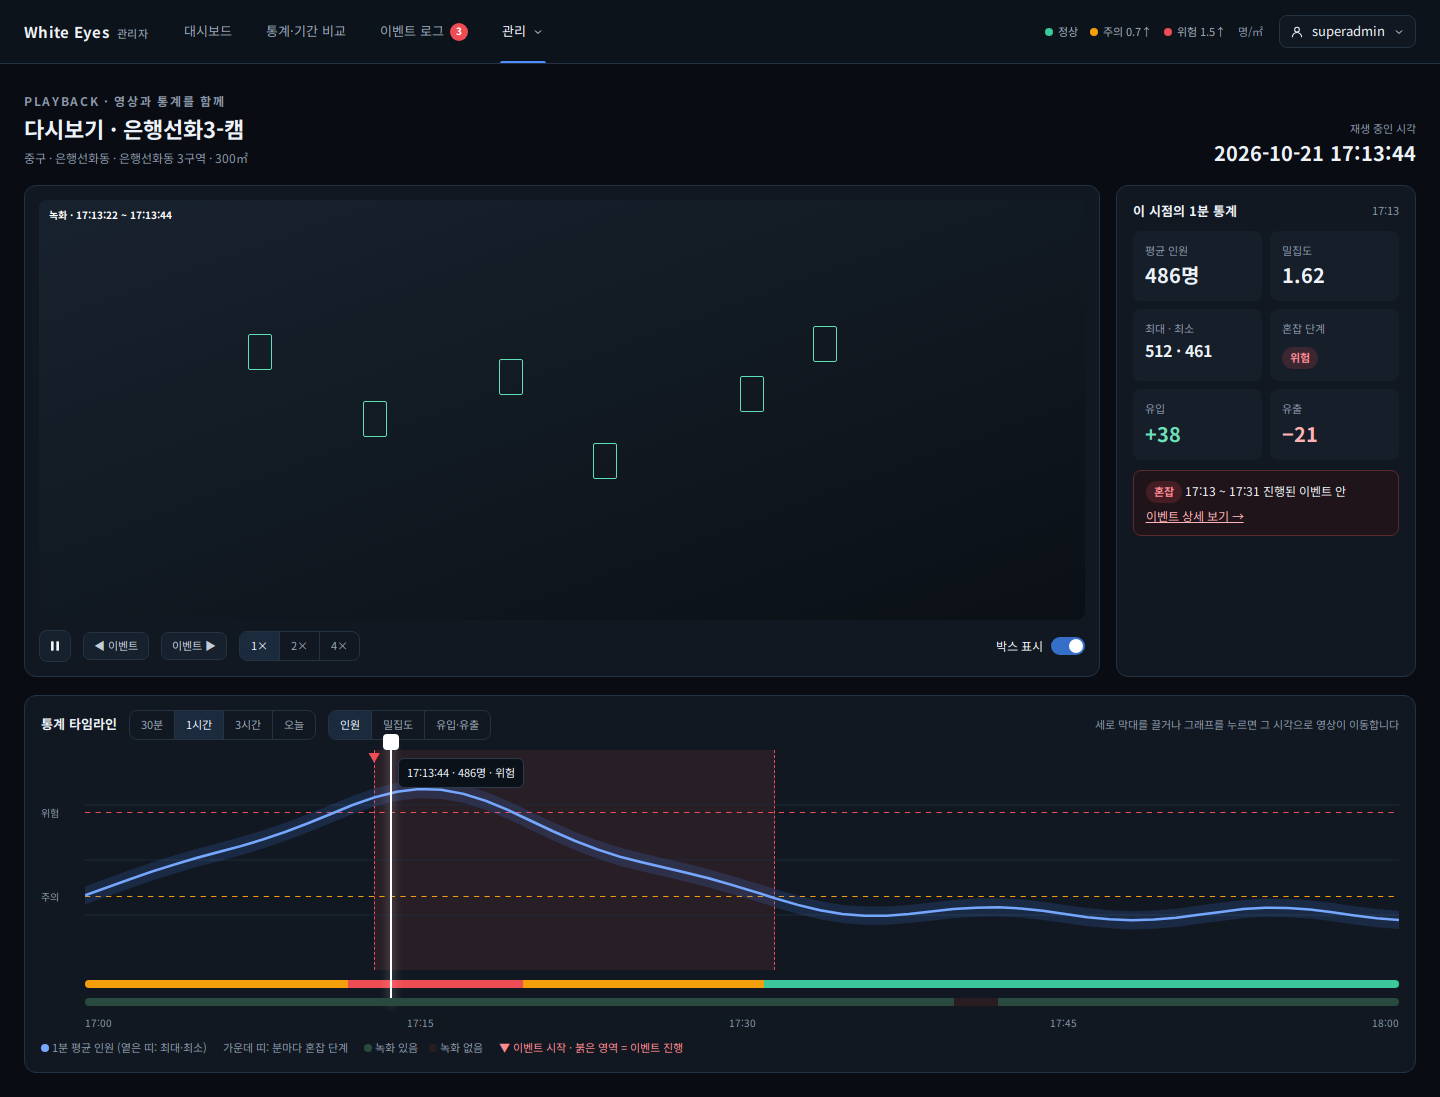
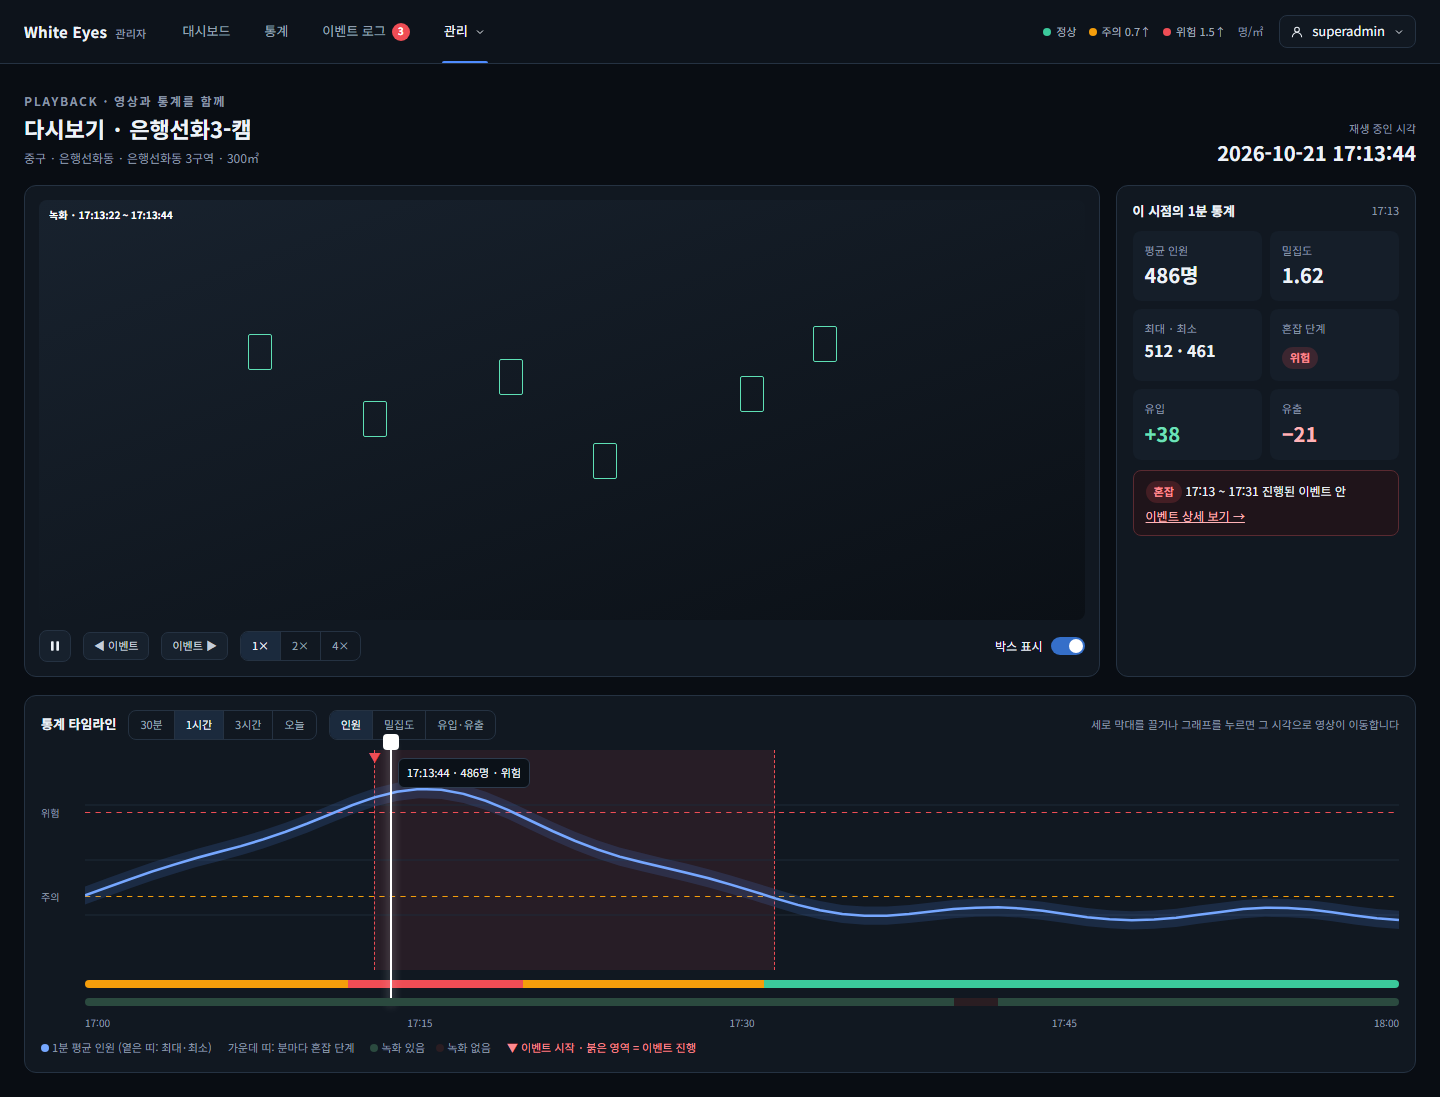
Merge pull request #115 from white-eyes1/docs/stats-redesign-328-330
docs: 통계 그래프 4칸 개편·기간 비교 화면 삭제·캠 화면 그래프 (spring #328·#329·#330)

diff --git a/design/screens/SCR-C-004-graph.html b/design/screens/SCR-C-004-graph.html
@@ -26,7 +26,7 @@
   <a class="brand" href="SCR-C-003-dashboard.html">White Eyes<small>관리자</small></a>
   <nav class="tabs" aria-label="주요 메뉴">
     <a class="tab " href="SCR-C-003-dashboard.html">대시보드</a>
-    <a class="tab on" href="SCR-C-004-graph.html">통계·기간 비교</a>
+    <a class="tab on" href="SCR-C-004-graph.html">통계</a>
     <a class="tab " href="SCR-A-010-events.html">이벤트 로그 <span class="badge-count" data-api="GET /api/v1/events/unchecked-count + 알림 SSE" data-fnc="FNC-A-048(2단계)">3</span></a>
     <a class="tab " href="SCR-A-004-zones.html">관리
       <svg width="12" height="12" viewBox="0 0 24 24" fill="none" stroke="currentColor" stroke-width="2" aria-hidden="true"><path d="m6 9 6 6 6-6"></path></svg>
@@ -47,7 +47,7 @@
   <main class="page">
     <div class="page-heading">
       <div><p class="eyebrow">STATISTICS</p><h1>통계 그래프</h1></div>
-      <div style="display: flex; gap: 8px"><a class="btn secondary" href="SCR-C-005-compare.html">기간 비교</a><a class="btn secondary" href="SCR-C-006-excel.html">엑셀 다운로드</a></div>
+      <div style="display: flex; gap: 8px"><a class="btn secondary" href="SCR-C-006-excel.html">엑셀 다운로드</a></div>
     </div>
     <section class="panel" style="padding: 14px 16px; display: flex; gap: 14px; align-items: center; flex-wrap: wrap">
       <span class="control">대전광역시 › 중구 › 은행선화동</span>

diff --git a/design/screens/SCR-A-012-history.html b/design/screens/SCR-A-012-history.html
@@ -20,7 +20,7 @@ pre{margin:0;padding:12px 14px;border-radius:8px;background:#0b1118;color:#c3cdd
   <a class="brand" href="SCR-C-003-dashboard.html">White Eyes<small>관리자</small></a>
   <nav class="tabs" aria-label="주요 메뉴">
     <a class="tab " href="SCR-C-003-dashboard.html">대시보드</a>
-    <a class="tab " href="SCR-C-004-graph.html">통계·기간 비교</a>
+    <a class="tab " href="SCR-C-004-graph.html">통계</a>
     <a class="tab " href="SCR-A-010-events.html">이벤트 로그 <span class="badge-count" data-api="GET /api/v1/events/unchecked-count + 알림 SSE" data-fnc="FNC-A-048(2단계)">3</span></a>
     <a class="tab on" href="SCR-A-004-zones.html">관리
       <svg width="12" height="12" viewBox="0 0 24 24" fill="none" stroke="currentColor" stroke-width="2" aria-hidden="true"><path d="m6 9 6 6 6-6"></path></svg>

diff --git a/design/src/AdminHeader.dc.html b/design/src/AdminHeader.dc.html
@@ -16,7 +16,7 @@
   <a class="brand" href="Dashboard.dc.html">White Eyes<small>관리자</small></a>
   <nav class="tabs" aria-label="주요 메뉴">
     <a class="tab {{tabDashboard}}" href="Dashboard.dc.html">대시보드</a>
-    <a class="tab {{tabStats}}" href="Graph.dc.html">통계·기간 비교</a>
+    <a class="tab {{tabStats}}" href="Graph.dc.html">통계</a>
     <a class="tab {{tabEvents}}" href="Events.dc.html">이벤트 로그 <span class="badge-count" data-api="GET /api/v1/events/unchecked-count + 알림 SSE" data-fnc="FNC-A-048(2단계)">3</span></a>
     <a class="tab {{tabManage}}" href="Zones.dc.html">관리
       <svg width="12" height="12" viewBox="0 0 24 24" fill="none" stroke="currentColor" stroke-width="2" aria-hidden="true"><path d="m6 9 6 6 6-6"></path></svg>

diff --git a/design/screens/SCR-A-001-users.html b/design/screens/SCR-A-001-users.html
@@ -16,7 +16,7 @@
   <a class="brand" href="SCR-C-003-dashboard.html">White Eyes<small>관리자</small></a>
   <nav class="tabs" aria-label="주요 메뉴">
     <a class="tab " href="SCR-C-003-dashboard.html">대시보드</a>
-    <a class="tab " href="SCR-C-004-graph.html">통계·기간 비교</a>
+    <a class="tab " href="SCR-C-004-graph.html">통계</a>
     <a class="tab " href="SCR-A-010-events.html">이벤트 로그 <span class="badge-count" data-api="GET /api/v1/events/unchecked-count + 알림 SSE" data-fnc="FNC-A-048(2단계)">3</span></a>
     <a class="tab on" href="SCR-A-004-zones.html">관리
       <svg width="12" height="12" viewBox="0 0 24 24" fill="none" stroke="currentColor" stroke-width="2" aria-hidden="true"><path d="m6 9 6 6 6-6"></path></svg>

diff --git a/design/screens/SCR-A-003-admins.html b/design/screens/SCR-A-003-admins.html
@@ -16,7 +16,7 @@
   <a class="brand" href="SCR-C-003-dashboard.html">White Eyes<small>관리자</small></a>
   <nav class="tabs" aria-label="주요 메뉴">
     <a class="tab " href="SCR-C-003-dashboard.html">대시보드</a>
-    <a class="tab " href="SCR-C-004-graph.html">통계·기간 비교</a>
+    <a class="tab " href="SCR-C-004-graph.html">통계</a>
     <a class="tab " href="SCR-A-010-events.html">이벤트 로그 <span class="badge-count" data-api="GET /api/v1/events/unchecked-count + 알림 SSE" data-fnc="FNC-A-048(2단계)">3</span></a>
     <a class="tab on" href="SCR-A-004-zones.html">관리
       <svg width="12" height="12" viewBox="0 0 24 24" fill="none" stroke="currentColor" stroke-width="2" aria-hidden="true"><path d="m6 9 6 6 6-6"></path></svg>

diff --git a/design/screens/SCR-A-004-zones.html b/design/screens/SCR-A-004-zones.html
@@ -21,7 +21,7 @@
   <a class="brand" href="SCR-C-003-dashboard.html">White Eyes<small>관리자</small></a>
   <nav class="tabs" aria-label="주요 메뉴">
     <a class="tab " href="SCR-C-003-dashboard.html">대시보드</a>
-    <a class="tab " href="SCR-C-004-graph.html">통계·기간 비교</a>
+    <a class="tab " href="SCR-C-004-graph.html">통계</a>
     <a class="tab " href="SCR-A-010-events.html">이벤트 로그 <span class="badge-count" data-api="GET /api/v1/events/unchecked-count + 알림 SSE" data-fnc="FNC-A-048(2단계)">3</span></a>
     <a class="tab on" href="SCR-A-004-zones.html">관리
       <svg width="12" height="12" viewBox="0 0 24 24" fill="none" stroke="currentColor" stroke-width="2" aria-hidden="true"><path d="m6 9 6 6 6-6"></path></svg>

diff --git a/design/screens/SCR-A-006-cameras.html b/design/screens/SCR-A-006-cameras.html
@@ -16,7 +16,7 @@
   <a class="brand" href="SCR-C-003-dashboard.html">White Eyes<small>관리자</small></a>
   <nav class="tabs" aria-label="주요 메뉴">
     <a class="tab " href="SCR-C-003-dashboard.html">대시보드</a>
-    <a class="tab " href="SCR-C-004-graph.html">통계·기간 비교</a>
+    <a class="tab " href="SCR-C-004-graph.html">통계</a>
     <a class="tab " href="SCR-A-010-events.html">이벤트 로그 <span class="badge-count" data-api="GET /api/v1/events/unchecked-count + 알림 SSE" data-fnc="FNC-A-048(2단계)">3</span></a>
     <a class="tab on" href="SCR-A-004-zones.html">관리
       <svg width="12" height="12" viewBox="0 0 24 24" fill="none" stroke="currentColor" stroke-width="2" aria-hidden="true"><path d="m6 9 6 6 6-6"></path></svg>

diff --git a/design/screens/SCR-A-009-playback.html b/design/screens/SCR-A-009-playback.html
@@ -26,7 +26,7 @@
   <a class="brand" href="SCR-C-003-dashboard.html">White Eyes<small>관리자</small></a>
   <nav class="tabs" aria-label="주요 메뉴">
     <a class="tab " href="SCR-C-003-dashboard.html">대시보드</a>
-    <a class="tab " href="SCR-C-004-graph.html">통계·기간 비교</a>
+    <a class="tab " href="SCR-C-004-graph.html">통계</a>
     <a class="tab " href="SCR-A-010-events.html">이벤트 로그 <span class="badge-count" data-api="GET /api/v1/events/unchecked-count + 알림 SSE" data-fnc="FNC-A-048(2단계)">3</span></a>
     <a class="tab on" href="SCR-A-004-zones.html">관리
       <svg width="12" height="12" viewBox="0 0 24 24" fill="none" stroke="currentColor" stroke-width="2" aria-hidden="true"><path d="m6 9 6 6 6-6"></path></svg>

diff --git a/design/screens/SCR-A-010-events.html b/design/screens/SCR-A-010-events.html
@@ -21,7 +21,7 @@
   <a class="brand" href="SCR-C-003-dashboard.html">White Eyes<small>관리자</small></a>
   <nav class="tabs" aria-label="주요 메뉴">
     <a class="tab " href="SCR-C-003-dashboard.html">대시보드</a>
-    <a class="tab " href="SCR-C-004-graph.html">통계·기간 비교</a>
+    <a class="tab " href="SCR-C-004-graph.html">통계</a>
     <a class="tab on" href="SCR-A-010-events.html">이벤트 로그 <span class="badge-count" data-api="GET /api/v1/events/unchecked-count + 알림 SSE" data-fnc="FNC-A-048(2단계)">3</span></a>
     <a class="tab " href="SCR-A-004-zones.html">관리
       <svg width="12" height="12" viewBox="0 0 24 24" fill="none" stroke="currentColor" stroke-width="2" aria-hidden="true"><path d="m6 9 6 6 6-6"></path></svg>

diff --git a/design/screens/SCR-A-013-admin-header.html b/design/screens/SCR-A-013-admin-header.html
@@ -13,7 +13,7 @@
   <a class="brand" href="SCR-C-003-dashboard.html">White Eyes<small>관리자</small></a>
   <nav class="tabs" aria-label="주요 메뉴">
     <a class="tab on" href="SCR-C-003-dashboard.html">대시보드</a>
-    <a class="tab " href="SCR-C-004-graph.html">통계·기간 비교</a>
+    <a class="tab " href="SCR-C-004-graph.html">통계</a>
     <a class="tab " href="SCR-A-010-events.html">이벤트 로그 <span class="badge-count" data-api="GET /api/v1/events/unchecked-count + 알림 SSE" data-fnc="FNC-A-048(2단계)">3</span></a>
     <a class="tab " href="SCR-A-004-zones.html">관리
       <svg width="12" height="12" viewBox="0 0 24 24" fill="none" stroke="currentColor" stroke-width="2" aria-hidden="true"><path d="m6 9 6 6 6-6"></path></svg>

diff --git a/design/screens/SCR-C-003-dashboard-deck-expanded.html b/design/screens/SCR-C-003-dashboard-deck-expanded.html
@@ -20,7 +20,7 @@
   <a class="brand" href="SCR-C-003-dashboard.html">White Eyes<small>관리자</small></a>
   <nav class="tabs" aria-label="주요 메뉴">
     <a class="tab on" href="SCR-C-003-dashboard.html">대시보드</a>
-    <a class="tab " href="SCR-C-004-graph.html">통계·기간 비교</a>
+    <a class="tab " href="SCR-C-004-graph.html">통계</a>
     <a class="tab " href="SCR-A-010-events.html">이벤트 로그 <span class="badge-count" data-api="GET /api/v1/events/unchecked-count + 알림 SSE" data-fnc="FNC-A-048(2단계)">3</span></a>
     <a class="tab " href="SCR-A-004-zones.html">관리
       <svg width="12" height="12" viewBox="0 0 24 24" fill="none" stroke="currentColor" stroke-width="2" aria-hidden="true"><path d="m6 9 6 6 6-6"></path></svg>

diff --git a/design/screens/SCR-C-003-dashboard.html b/design/screens/SCR-C-003-dashboard.html
@@ -25,7 +25,7 @@
   <a class="brand" href="SCR-C-003-dashboard.html">White Eyes<small>관리자</small></a>
   <nav class="tabs" aria-label="주요 메뉴">
     <a class="tab on" href="SCR-C-003-dashboard.html">대시보드</a>
-    <a class="tab " href="SCR-C-004-graph.html">통계·기간 비교</a>
+    <a class="tab " href="SCR-C-004-graph.html">통계</a>
     <a class="tab " href="SCR-A-010-events.html">이벤트 로그 <span class="badge-count" data-api="GET /api/v1/events/unchecked-count + 알림 SSE" data-fnc="FNC-A-048(2단계)">3</span></a>
     <a class="tab " href="SCR-A-004-zones.html">관리
       <svg width="12" height="12" viewBox="0 0 24 24" fill="none" stroke="currentColor" stroke-width="2" aria-hidden="true"><path d="m6 9 6 6 6-6"></path></svg>
